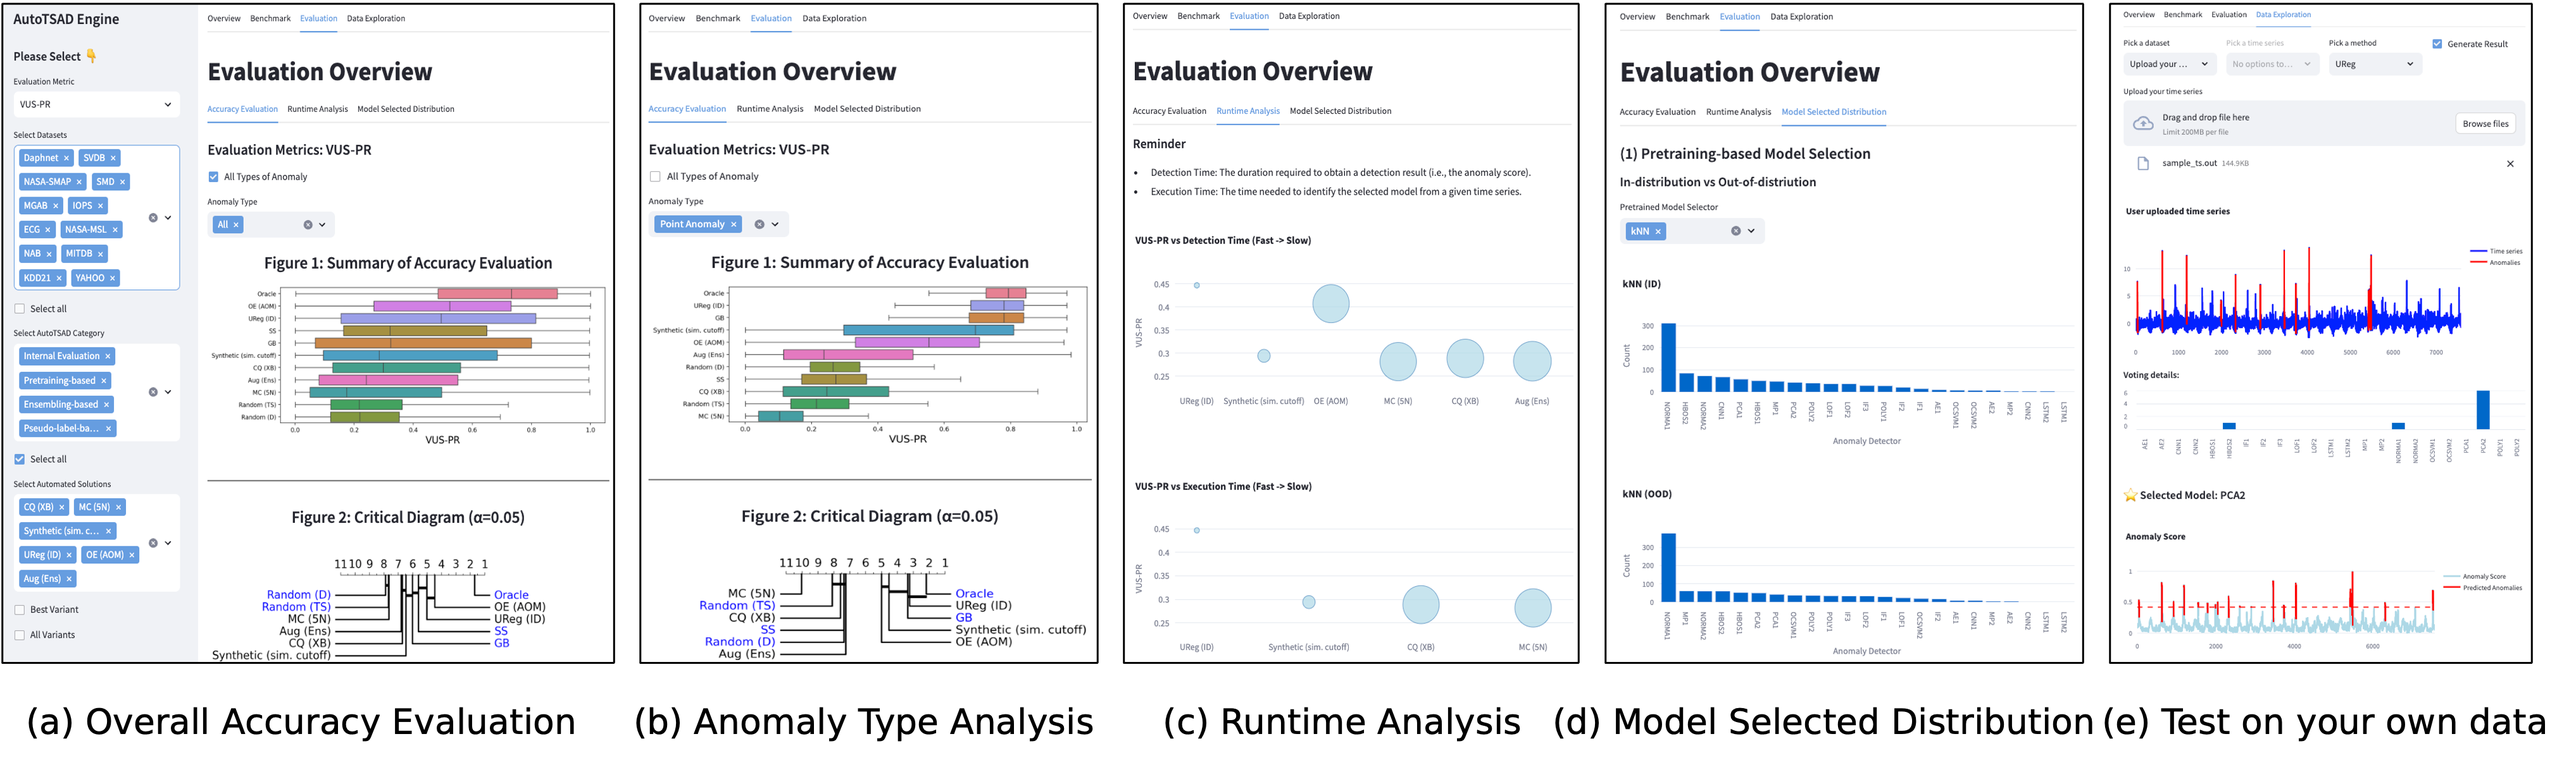
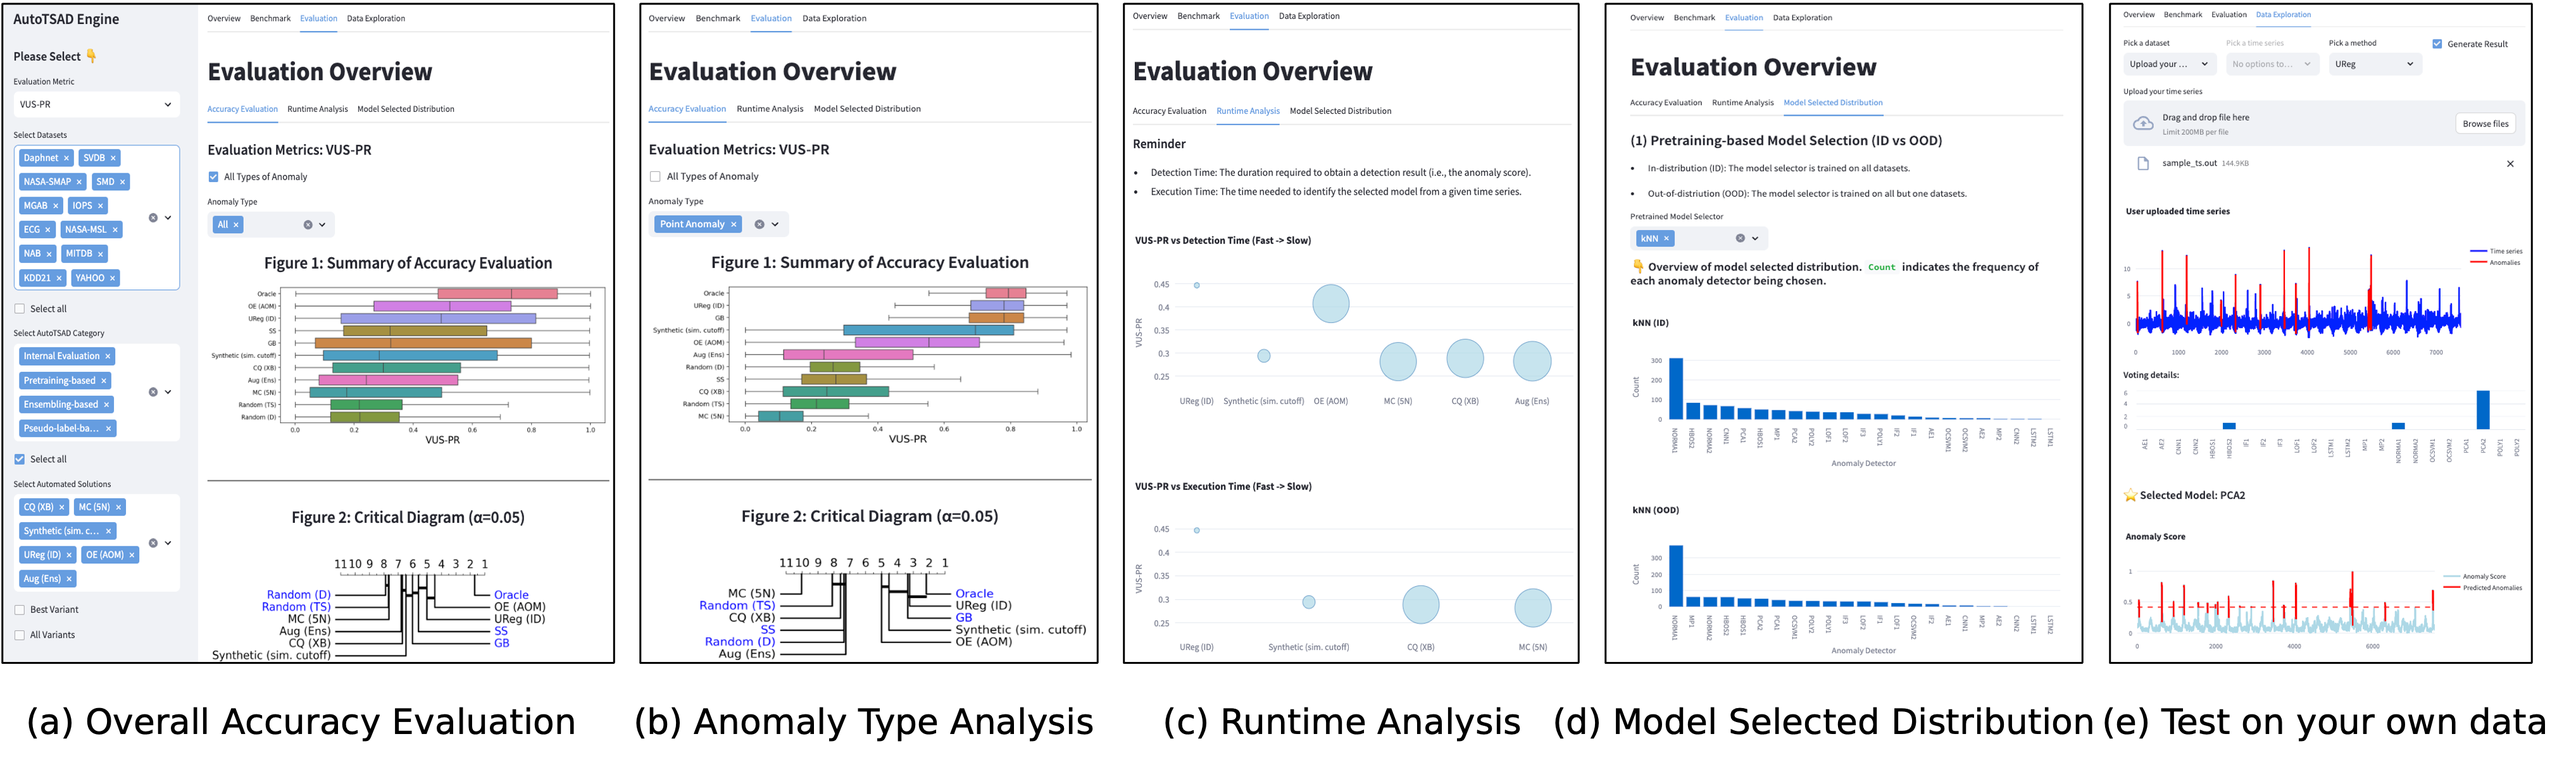
update

diff --git a/app.py b/app.py
@@ -66,39 +66,42 @@ with tab_benchmark:
     image = Image.open('figures/AutoTSAD.png')
     st.image(image, caption='Overview of AutoTSAD benchmark')
     st.markdown('#### 2. Taxonomy of Automated Solutions for Time Series')
+    image = Image.open('figures/taxonomy_year.png')
+    st.image(image)
+
+    # # labels = [
+    # #     "AutoTSAD", 
+    # #     "Model Selection", "Model Generation",
+    # #     "Internal Evaluation", "Pretraining Based", "Ensembling Based", "Pseudo-label Based",
+    # #     "EM&MV (2016)", "CQ (2016)", "MC (2022)", "Synthetic (2022)", "RA (2022)", "CLF (2020)", "RG (2008)", 
+    # #     "UReg (2023)", "CFact (2023)", "kNN (2013)", "MetaOD (2021)", "ISAC (2010)",
+    # #     "OE (2015)", "UE (2014)", "HITS (2023)", "Aug (2022)", "Clean (2023)", "Booster (2023)"
+    # # ]
     # labels = [
     #     "AutoTSAD", 
     #     "Model Selection", "Model Generation",
     #     "Internal Evaluation", "Pretraining Based", "Ensembling Based", "Pseudo-label Based",
-    #     "EM&MV (2016)", "CQ (2016)", "MC (2022)", "Synthetic (2022)", "RA (2022)", "CLF (2020)", "RG (2008)", 
-    #     "UReg (2023)", "CFact (2023)", "kNN (2013)", "MetaOD (2021)", "ISAC (2010)",
-    #     "OE (2015)", "UE (2014)", "HITS (2023)", "Aug (2022)", "Clean (2023)", "Booster (2023)"
+    #     "EM&MV", "CQ", "MC", "Synthetic", "RA", "CLF", "RG", "UReg", "CFact", "kNN", "MetaOD", "ISAC",
+    #     "OE", "UE", "HITS", "Aug", "Clean", "Booster"
+    # ]    
+    # parents = [
+    #     "", 
+    #     "AutoTSAD", "AutoTSAD",
+    #     "Model Selection", "Model Selection", "Model Generation", "Model Generation",
+    #     "Internal Evaluation", "Internal Evaluation", "Internal Evaluation", "Internal Evaluation", "Internal Evaluation",
+    #     "Pretraining Based", "Pretraining Based", "Pretraining Based", "Pretraining Based", "Pretraining Based", "Pretraining Based", "Pretraining Based",
+    #     "Ensembling Based",  "Ensembling Based",  "Ensembling Based", "Pseudo-label Based", "Pseudo-label Based", "Pseudo-label Based"
     # ]
-    labels = [
-        "AutoTSAD", 
-        "Model Selection", "Model Generation",
-        "Internal Evaluation", "Pretraining Based", "Ensembling Based", "Pseudo-label Based",
-        "EM&MV", "CQ", "MC", "Synthetic", "RA", "CLF", "RG", "UReg", "CFact", "kNN", "MetaOD", "ISAC",
-        "OE", "UE", "HITS", "Aug", "Clean", "Booster"
-    ]    
-    parents = [
-        "", 
-        "AutoTSAD", "AutoTSAD",
-        "Model Selection", "Model Selection", "Model Generation", "Model Generation",
-        "Internal Evaluation", "Internal Evaluation", "Internal Evaluation", "Internal Evaluation", "Internal Evaluation",
-        "Pretraining Based", "Pretraining Based", "Pretraining Based", "Pretraining Based", "Pretraining Based", "Pretraining Based", "Pretraining Based",
-        "Ensembling Based",  "Ensembling Based",  "Ensembling Based", "Pseudo-label Based", "Pseudo-label Based", "Pseudo-label Based"
-    ]
 
-    fig = go.Figure(go.Treemap(
-        labels=labels,
-        parents=parents,
-        textfont=dict(size=18)
-    ))
+    # fig = go.Figure(go.Treemap(
+    #     labels=labels,
+    #     parents=parents,
+    #     textfont=dict(size=18)
+    # ))
 
-    fig.update_layout(margin=dict(t=0, l=0, r=0, b=0))
-        # treemapcolorway=["#3cb371", "#ffd700", "#3cb371", "#ffd700"])
-    st.plotly_chart(fig)
+    # fig.update_layout(margin=dict(t=0, l=0, r=0, b=0))
+    #     # treemapcolorway=["#3cb371", "#ffd700", "#3cb371", "#ffd700"])
+    # st.plotly_chart(fig)
 
     st.markdown(description_dataset)
     st.markdown(description_candidate)
@@ -140,15 +143,18 @@ with tab_eva:
                 df_toplot = pd.concat([df_toplot, df_filtered[df_filtered['seq_anomaly'] == 1]], ignore_index=True)
             df_toplot = df_toplot.drop_duplicates()
 
-        if len(df_toplot.columns) <= 5:        
-            st.markdown("#### :heavy_exclamation_mark: Note: Please select automated solutions in the left :point_left: panel AND types of anomaly in the above :point_up_2:")
-
+        if len(datasets) == 0:
+            st.markdown("#### :heavy_exclamation_mark: Note: Please select datasets in the left :point_left: panel")
         else:
-            df_toplot = df_toplot[Comparaed_Solution_Pool]
-            plot_box_plot(target_df=df_toplot, methods_variant=Comparaed_Solution_Pool, metric_name=metric_name)
-            st.markdown('<hr style="border:2px solid gray">', unsafe_allow_html=True)
-            st.markdown("<h3 style='text-align: center;'>Table 1: Performance Comparision</h3>", unsafe_allow_html=True)
-            st.dataframe(df_toplot)
+            if len(df_toplot.columns) <= 5:        
+                st.markdown("#### :heavy_exclamation_mark: Note: Please select automated solutions in the left :point_left: panel AND types of anomaly in the above :point_up_2:")
+
+            else:
+                df_toplot = df_toplot[Comparaed_Solution_Pool]
+                plot_box_plot(target_df=df_toplot, methods_variant=Comparaed_Solution_Pool, metric_name=metric_name)
+                st.markdown('<hr style="border:2px solid gray">', unsafe_allow_html=True)
+                st.markdown("<h3 style='text-align: center;'>Table 1: Performance Comparision</h3>", unsafe_allow_html=True)
+                st.dataframe(df_toplot)
 
     with tab_time:
         st.markdown(runtime_intro)
@@ -201,15 +207,18 @@ with tab_eva:
 
 
     with tab_ms:
-        st.markdown('#### (1) Pretraining-based Model Selection')
-        st.markdown('##### In-distribution vs Out-of-distriution')
+        st.markdown('#### (1) Pretraining-based Model Selection (ID vs OOD)')
+        # st.markdown('##### In-distribution vs Out-of-distriution')
+        st.markdown('* In-distribution (ID): The model selector is trained on all datasets.')
+        st.markdown('* Out-of-distriution (OOD): The model selector is trained on all but one datasets.')
 
         ms_distribution_pretraining_col, _, _ = st.columns([1, 1, 1])
         with ms_distribution_pretraining_col:
             container_ms_distribution_pretraining = st.container()
             ms_distribution_pretraining = container_ms_distribution_pretraining.multiselect('Pretrained Model Selector', methods_pretrain_id, key='ms_distribution_pretraining')
-        if len(ms_distribution_pretraining) >= 0:
+        if len(ms_distribution_pretraining) > 0:
             for method in ms_distribution_pretraining:
+                st.markdown("##### :point_down: Overview of model selected distribution. `Count` indicates the frequency of each anomaly detector being chosen.")
                 for case in [' (ID)', ' (OOD)']:
                     method_case = str(method)+case
                     globals()[method_case+'_dict'] = {det: 0 for det in Candidate_Model_Set}
@@ -225,6 +234,9 @@ with tab_eva:
                     fig = px.bar(x=keys_name, y=list(values), labels={'x':'Anomaly Detector', 'y':'Count'},title=method_case)
                     fig.update_layout(height=300)
                     st.plotly_chart(fig)
+
+                st.markdown('<hr style="border:2px solid gray">', unsafe_allow_html=True)
+                st.markdown(f"##### :point_down: Pairwise Comparison of {method} (ID) and {method} (OOD) in terms of {metric_name}.")
 
                 fig = plt.figure(figsize=(6, 6))
                 x = df[str(method)+' (ID)']
@@ -244,7 +256,7 @@ with tab_eva:
                 # Label the axes
                 plt.xlabel('ID', fontsize=12)
                 plt.ylabel('OOD', fontsize=12)
-                plt.title('Pairwise Comparison: '+method, fontsize=14)
+                # plt.title('Pairwise Comparison: '+method, fontsize=14)
                 plt.xticks(fontsize=10)
                 plt.yticks(fontsize=10)
 
@@ -259,7 +271,8 @@ with tab_eva:
         with ms_distribution_internal_col:
             container_ms_distribution_internal = st.container()
             ms_distribution_internal = container_ms_distribution_internal.multiselect('Internal Evaluation', methods_ie, key='ms_distribution_internal')
-        if len(ms_distribution_internal) >= 0:
+        if len(ms_distribution_internal) > 0:
+            st.markdown("##### :point_down: Overview of model selected distribution. `Count` indicates the frequency of each anomaly detector being chosen.")
             for method in ms_distribution_internal:
                 globals()[method+'_dict'] = {det: 0 for det in Candidate_Model_Set}
                 for index, row in df.iterrows():
@@ -330,10 +343,15 @@ with tab_exploration:
         if gen_result:
             if not dataset_exp == 'Upload your own':
                 st.markdown(f"* {metric_name} of {method_selected_exp} = {df.loc[time_series_selected_exp][method_selected_exp]}")
-                st.markdown("* Evaluation details:")
-                method_display = Comparaed_Solution_Pool
-                method_display.append(method_selected_exp)
-                st.dataframe(df.loc[time_series_selected_exp, method_display])
+                method_display = set(Comparaed_Solution_Pool)
+                method_display.add(method_selected_exp)
+                df_display = df.loc[time_series_selected_exp, list(method_display)]
+                sorted_df_display = df_display.to_frame().sort_values(by=time_series_selected_exp, ascending=False)
+                st.markdown(f'* Ranking of {method_selected_exp} is: {sorted_df_display.index.tolist().index(method_selected_exp)}')
+
+                st.markdown("* Ranked Evaluation details (Best -> Worst):")
+                st.dataframe(sorted_df_display)
+
             else:
                 pred_detector, success, vote_summary = run_model(ts_data, method_selected_exp)
                 if success:

diff --git a/constant.py b/constant.py
@@ -42,7 +42,7 @@ description_intro = f"""
 
 Despite the recent focus on time-series anomaly detection, the effectiveness of the proposed anomaly detectors is restricted to specific domains. It is worth noting that a model that performs well on one dataset may not perform well on another. Therefore, how to select the optimal model for a particular dataset has emerged as a pressing issue. 
 However, there is a noticeable gap in the existing literature when it comes to providing a comprehensive review of the ongoing efforts in this field. The evaluation of proposed methods across different datasets and under varying assumptions may create an illusion of progress. 
-Motivated by the limitations above, we introduce the AutoTSAD Engine, a modular web interface designed to facilitate the exploration of the first comprehensive benchmark for automated time-series anomaly detection. AutoTSAD Engine enables rigorous statistical analysis of 18 automated solutions across 18 public datasets, incorporating a two-dimensional evaluation that includes both (i) accuracy and (ii) runtime analysis. And it allows users to assess the performance of various methods both (i) globally, by providing aggregated evaluation across datasets, and (ii) individually, offering fine-grained analysis per time series. Furthermore, the engine accommodates the processing of user-uploaded data, enabling users to experiment with different model selection strategies on their own datasets. 
+Motivated by the limitations above, we introduce the AutoTSAD Engine, a modular web interface designed to facilitate the exploration of the first comprehensive benchmark for automated time-series anomaly detection. AutoTSAD Engine enables rigorous statistical analysis of 18 automated solutions across 18 public datasets, incorporating a two-dimensional evaluation that includes both (i) accuracy and (ii) runtime analysis. It allows users to assess the performance of various methods both (i) globally, by providing aggregated evaluation across datasets, and (ii) individually, offering fine-grained analysis per time series. Furthermore, the engine accommodates the processing of user-uploaded data, enabling users to experiment with different model selection strategies on their own datasets. 
 Our goal for the interactive AutoTSAD Engine is to help users gain insights into different methods and to facilitate a more intuitive comprehension of the performance disparities among these methods.
 
 * Github repo: https://github.com/TheDatumOrg/AutoTSAD
